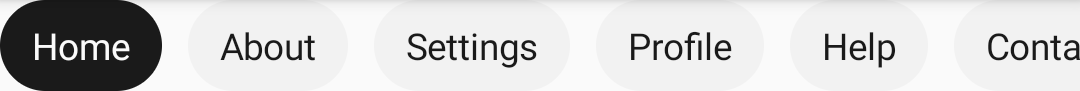
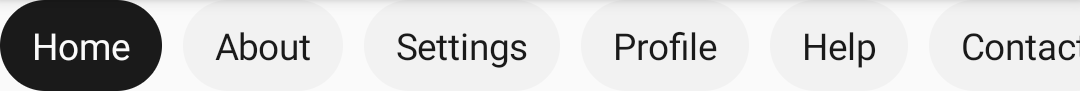
feat: ChipGroup add contentPadding, horizontalArrangement change to 8dp (UI design is 8dp )

diff --git a/mobile-design/src/main/java/com/nmg/mobile/design/widgets/chip/ChipGroup.kt b/mobile-design/src/main/java/com/nmg/mobile/design/widgets/chip/ChipGroup.kt
@@ -3,6 +3,7 @@ package com.nmg.mobile.design.widgets.chip
 import androidx.compose.foundation.layout.Arrangement
 import androidx.compose.foundation.layout.Box
 import androidx.compose.foundation.layout.Column
+import androidx.compose.foundation.layout.PaddingValues
 import androidx.compose.foundation.layout.padding
 import androidx.compose.foundation.lazy.LazyRow
 import androidx.compose.material.Button
@@ -23,6 +24,7 @@ public interface ChipData {
 public fun <Items : List<ChipData>> ChipGroup(
     items: Items,
     selectedTabIndex: Int = 0,
+    contentPadding: PaddingValues = PaddingValues(0.dp),
     onTapChip: (Int) -> Unit
 ) {
     var tabIndex by remember { mutableStateOf(selectedTabIndex) }
@@ -34,7 +36,7 @@ public fun <Items : List<ChipData>> ChipGroup(
     }
 
     LazyRow(
-        horizontalArrangement = Arrangement.spacedBy(10.dp)
+        horizontalArrangement = Arrangement.spacedBy(NMGTheme.customSystem.spacing)
     ) {
         items(items.size) { index ->
             Chip(
